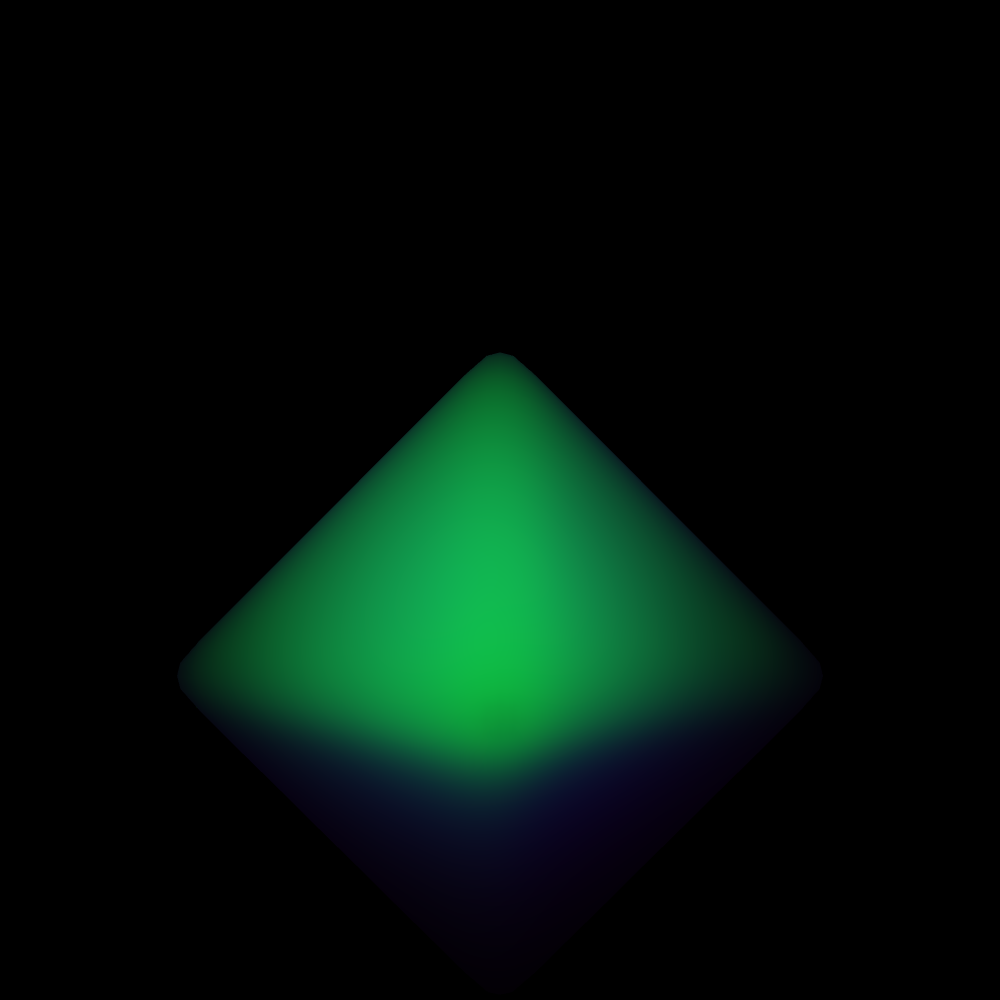
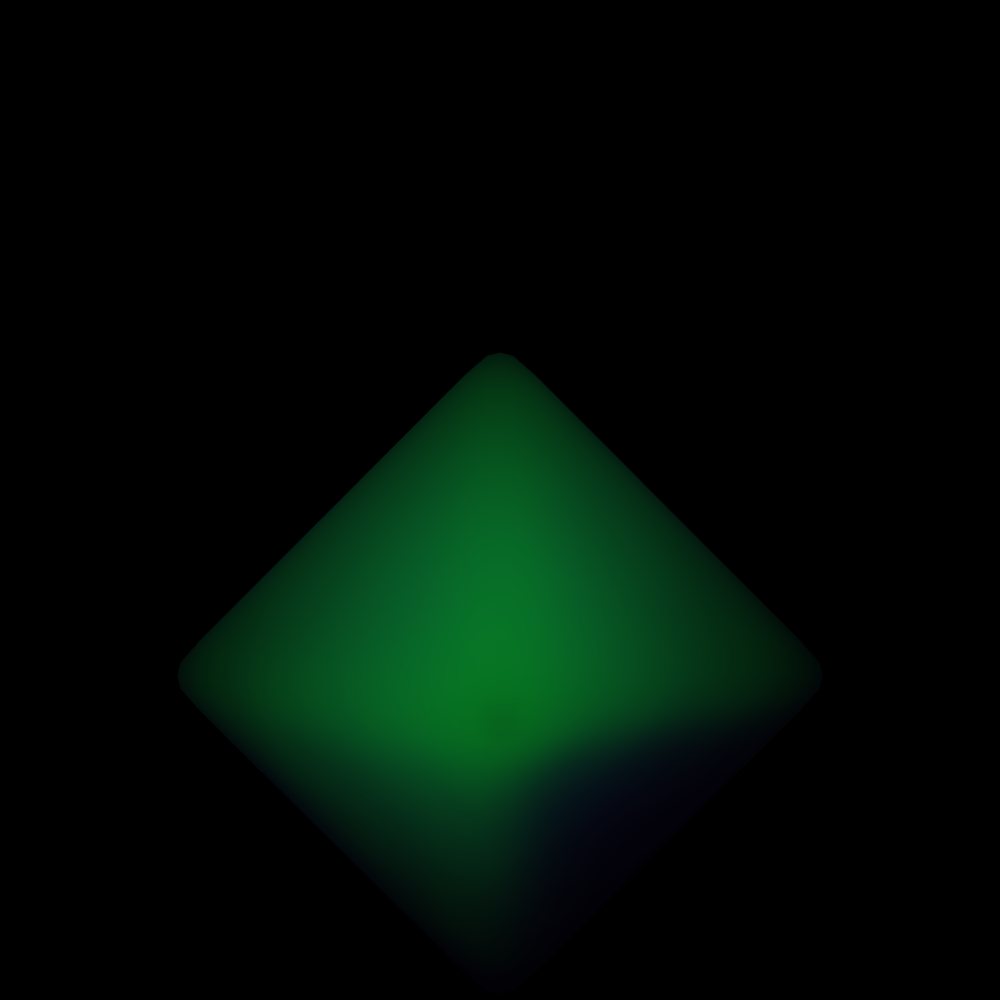
fix cosine weighted sampling

Changed region(s): [[0.217, 0.341, 0.682, 0.899]]

diff --git a/src/main.py b/src/main.py
@@ -45,29 +45,28 @@ def calculate_parameters(sigma_a: float3, sigma_s: float3, g: float, eta: float)
     sigma_s_prime = sigma_s * (1.0 - g)
     sigma_t_prime = sigma_s_prime + sigma_a
     alpha_prime = sigma_s_prime / sigma_t_prime
-    fresnel = -(1.440 / eta + 0.710) / eta + 0.668 + 0.0636 * eta
+    fresnel = -1.440 / eta / eta + 0.710 / eta + 0.668 + 0.0636 * eta
     a = (1.0 + fresnel) / (1.0 - fresnel)
     albedo = 0.5 * alpha_prime * (1.0 + make_float3(
         math.exp(-4.0 / 3.0 * a * math.sqrt(3.0 * (1.0 - alpha_prime.x))),
         math.exp(-4.0 / 3.0 * a * math.sqrt(3.0 * (1.0 - alpha_prime.y))),
         math.exp(-4.0 / 3.0 * a * math.sqrt(3.0 * (1.0 - alpha_prime.z)))
-    )) * make_float3(
-        math.exp(-math.sqrt(3.0 * (1.0 - alpha_prime.x))),
-        math.exp(-math.sqrt(3.0 * (1.0 - alpha_prime.y))),
-        math.exp(-math.sqrt(3.0 * (1.0 - alpha_prime.z)))
+    )) / (1.0 + make_float3(
+        math.sqrt(3.0 * (1.0 - alpha_prime.x)),
+        math.sqrt(3.0 * (1.0 - alpha_prime.y)),
+        math.sqrt(3.0 * (1.0 - alpha_prime.z)))
     )
     sigma_tr = make_float3(
         math.sqrt(3.0 * (1.0 - alpha_prime.x)),
         math.sqrt(3.0 * (1.0 - alpha_prime.y)),
         math.sqrt(3.0 * (1.0 - alpha_prime.z))
     ) * sigma_t_prime
-    dmfp = 1.0 / ((3.5 + 100 * make_float3(
-        (albedo.x - 0.33) ** 4,
-        (albedo.y - 0.33) ** 4,
-        (albedo.z - 0.33) ** 4
-    )) * sigma_tr)
-    zr = 1 / sigma_t_prime
-    zv = (1 + 4 / 3 * a) / sigma_t_prime
+    s = albedo - 0.8
+    s *= s
+    s = 1.9 - albedo + 3.5 * s
+    dmfp = 1.0 / (s * sigma_t_prime)
+    zr = 1.0 / sigma_t_prime
+    zv = (1.0 + 4.0 / 3.0 * a) / sigma_t_prime
     return Parameters(sigma_tr, dmfp, albedo, zr, zv)
 
 
@@ -291,7 +290,7 @@ def influx_kernel(influx, point_light_count, direction_light_count, spp):
         direction = point_light.position - vertex
         probe_ray = make_ray(vertex, normalize(direction), 1e-3, length(direction))
         if not accel.trace_any(probe_ray):
-            acc += point_light.emission * max(dot(normal, direction), 0.0)
+            acc += point_light.emission * max(dot(normal, normalize(direction)), 0.0)
     for i in range(direction_light_count):
         direction_light = direction_light_buffer.read(i)
         direction = normalize(-direction_light.direction)
@@ -308,8 +307,8 @@ def influx_kernel(influx, point_light_count, direction_light_count, spp):
             continue
         else:
             surface_light = surface_light_buffer.read(hit.inst - 1)
-            surface_acc += surface_light.emission
-    influx.write(idx, (acc + (surface_acc * 2.0 * 3.1415926) / float(spp)))
+            surface_acc += surface_light.emission / max(dot(normal, probe_direction), 0.05)
+    influx.write(idx, (acc + (surface_acc * 3.1415926) / float(spp)))
 
 
 def collect_vertex_influx(scene: Scene) -> luisa.Buffer:
@@ -397,12 +396,12 @@ def main():
                     for (int i = 0; i < vertex_count; i++)
                     {
                         float r = length(vertex_position - vertex[i].xyz);
-                        r = max(r, 0.0175);
+                        r = max(r, 0.02);
                         vec3 a = exp(-r / (3.0 * dmfp));
                         a = (a + a * a * a) / (8.0 * 3.1415926 * dmfp * r);
-                        acc += influx[i].rgb * a / float(vertex_count);
+                        acc += influx[i].rgb * a;
                     }
-                    efflux[vertex_index] = vec4(acc * albedo, 1.0);
+                    efflux[vertex_index] = vec4(acc * albedo / float(vertex_count), 1.0);
                 }
             """
             .replace("vertex_count", str(vertex_buffer.size))
